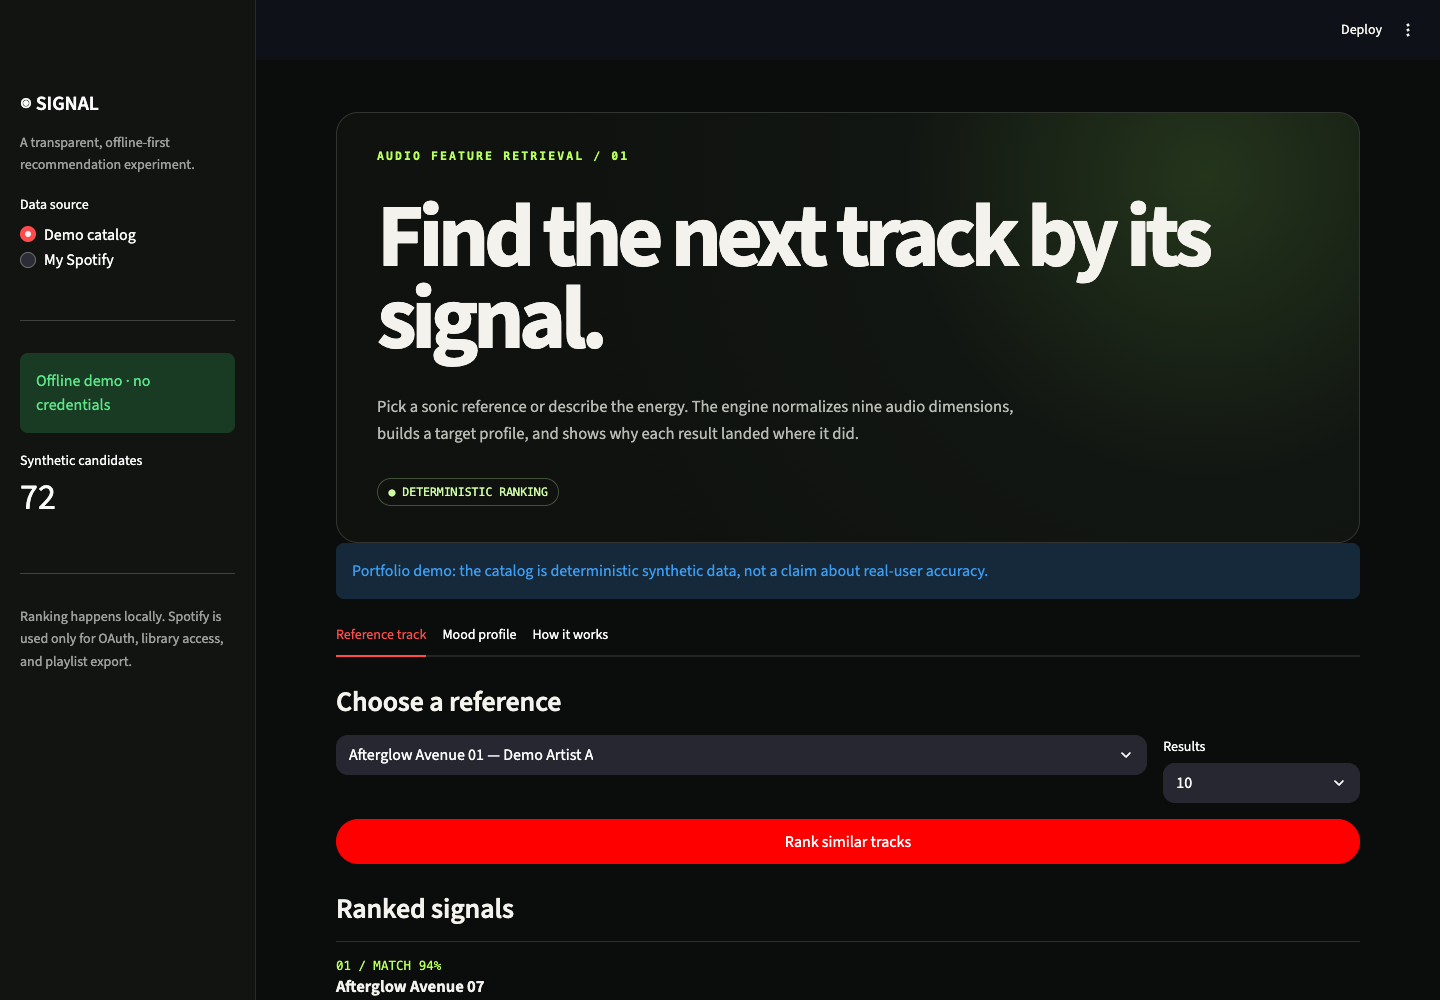
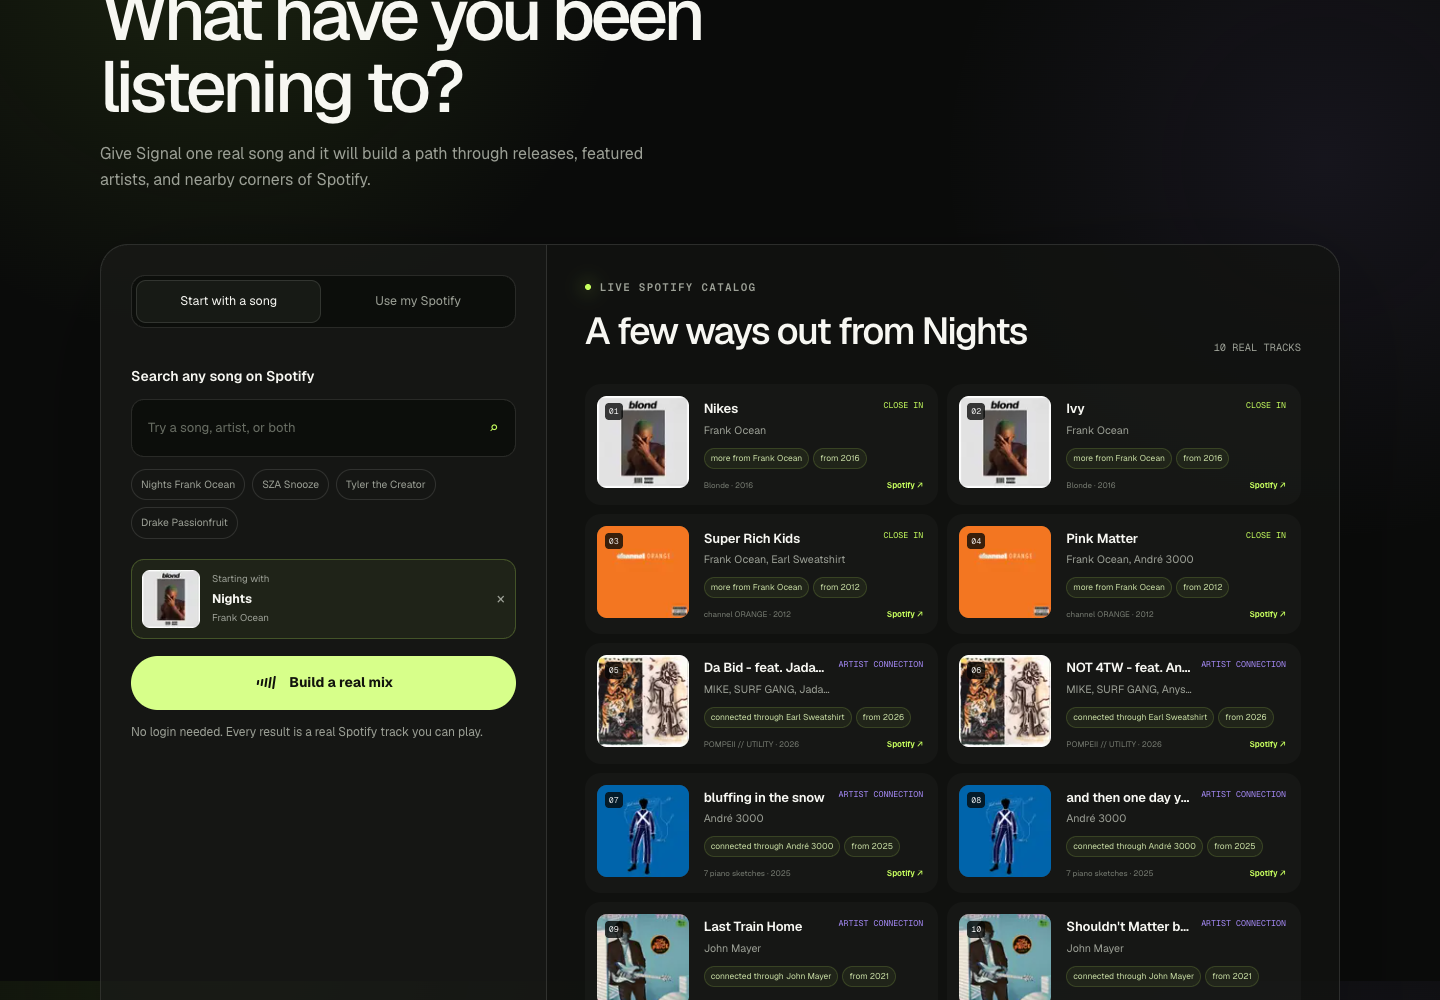
refresh Signal and polish portfolio

diff --git a/lib/project-content.test.ts b/lib/project-content.test.ts
@@ -1,0 +1,102 @@
+import fs from "node:fs";
+import path from "node:path";
+import { describe, expect, it } from "vitest";
+import type { ProjectMeta } from "./types";
+
+const root = process.cwd();
+const projectsRoot = path.join(root, "content", "projects");
+const projectDirectories = fs
+  .readdirSync(projectsRoot, { withFileTypes: true })
+  .filter((entry) => entry.isDirectory())
+  .map((entry) => entry.name)
+  .sort();
+
+function projectMeta(directory: string): ProjectMeta {
+  return JSON.parse(
+    fs.readFileSync(path.join(projectsRoot, directory, "meta.json"), "utf8"),
+  ) as ProjectMeta;
+}
+
+function internalRouteExists(url: string): boolean {
+  const route = url.split(/[?#]/, 1)[0];
+  if (route === "/") return fs.existsSync(path.join(root, "app", "page.tsx"));
+  const segments = route.replace(/^\//, "").split("/").filter(Boolean);
+  return fs.existsSync(path.join(root, "app", ...segments, "page.tsx"));
+}
+
+describe("project portfolio content", () => {
+  it("keeps metadata, folders, and case-study routes in sync", () => {
+    const slugs = new Set<string>();
+
+    for (const directory of projectDirectories) {
+      const metaPath = path.join(projectsRoot, directory, "meta.json");
+      const mdxPath = path.join(projectsRoot, directory, "index.mdx");
+      expect(fs.existsSync(metaPath), `${directory} is missing meta.json`).toBe(true);
+      expect(fs.existsSync(mdxPath), `${directory} is missing index.mdx`).toBe(true);
+
+      const meta = projectMeta(directory);
+      expect(meta.slug, `${directory} has an empty slug`).toBe(directory);
+      expect(slugs.has(meta.slug), `duplicate project slug: ${meta.slug}`).toBe(false);
+      slugs.add(meta.slug);
+
+      expect(meta.title.trim().length, `${directory} has an empty title`).toBeGreaterThan(0);
+      expect(meta.summary.trim().length, `${directory} has a thin summary`).toBeGreaterThan(80);
+      expect(meta.outcome.trim().length, `${directory} has a thin outcome`).toBeGreaterThan(40);
+      expect(meta.tags.length, `${directory} has no technology tags`).toBeGreaterThan(0);
+      expect(meta.startDate, `${directory} has an invalid start date`).toMatch(/^\d{4}-(0[1-9]|1[0-2])$/);
+
+      if (meta.endDate) {
+        expect(meta.endDate, `${directory} has an invalid end date`).toMatch(/^\d{4}-(0[1-9]|1[0-2])$/);
+        expect(meta.endDate >= meta.startDate, `${directory} ends before it starts`).toBe(true);
+      }
+      if (meta.status === "in-progress") {
+        expect(meta.endDate, `${directory} is in progress but has an end date`).toBeNull();
+      }
+
+      const caseStudy = fs.readFileSync(mdxPath, "utf8");
+      expect(caseStudy.trim().length, `${directory} case study is too thin`).toBeGreaterThan(300);
+    }
+  });
+
+  it("keeps project proof links and screenshots resolvable", () => {
+    for (const directory of projectDirectories) {
+      const meta = projectMeta(directory);
+      const caseStudy = fs.readFileSync(
+        path.join(projectsRoot, directory, "index.mdx"),
+        "utf8",
+      );
+
+      expect(meta.liveUrl, `${directory} has no working-product proof link`).toBeTruthy();
+      if (meta.liveUrl?.startsWith("/")) {
+        expect(internalRouteExists(meta.liveUrl), `${directory} points to missing route ${meta.liveUrl}`).toBe(true);
+      } else {
+        expect(meta.liveUrl, `${directory} demo must use HTTPS`).toMatch(/^https:\/\//);
+      }
+
+      if (meta.githubUrl) {
+        expect(meta.githubUrl, `${directory} code link must use HTTPS`).toMatch(/^https:\/\/github\.com\//);
+      }
+
+      const markdownTargets = [...caseStudy.matchAll(/!\[[^\]]*\]\(([^)]+)\)/g)]
+        .map((match) => match[1])
+        .filter((target) => target.startsWith("/"));
+
+      for (const target of markdownTargets) {
+        const publicPath = path.join(root, "public", target.replace(/^\//, ""));
+        expect(fs.existsSync(publicPath), `${directory} references missing proof asset ${target}`).toBe(true);
+        expect(fs.statSync(publicPath).size, `${target} is unexpectedly small`).toBeGreaterThan(10_000);
+      }
+
+      const internalLinks = [...caseStudy.matchAll(/(?<!!)\[[^\]]+\]\((\/[^)]+)\)/g)]
+        .map((match) => match[1]);
+      for (const target of internalLinks) {
+        expect(internalRouteExists(target), `${directory} points to missing route ${target}`).toBe(true);
+      }
+    }
+  });
+
+  it("keeps the featured section to the intended three-project layout", () => {
+    const featured = projectDirectories.filter((directory) => projectMeta(directory).featured);
+    expect(featured).toHaveLength(3);
+  });
+});

diff --git a/lib/metadata.ts b/lib/metadata.ts
@@ -1,0 +1,42 @@
+import type { Metadata } from "next";
+
+interface PageMetadataOptions {
+  title: string;
+  description: string;
+  path: `/${string}`;
+}
+
+export const socialImage = {
+  url: "/opengraph-image",
+  width: 1200,
+  height: 630,
+  alt: "Rohan Singh: projects, running, and more",
+};
+
+export function pageMetadata({
+  title,
+  description,
+  path,
+}: PageMetadataOptions): Metadata {
+  const socialTitle = `${title} | Rohan Singh`;
+
+  return {
+    title,
+    description,
+    alternates: { canonical: path },
+    openGraph: {
+      title: socialTitle,
+      description,
+      url: path,
+      siteName: "Rohan Singh",
+      type: "website",
+      images: [socialImage],
+    },
+    twitter: {
+      card: "summary_large_image",
+      title: socialTitle,
+      description,
+      images: [socialImage],
+    },
+  };
+}

diff --git a/app/globe/page.tsx b/app/globe/page.tsx
@@ -1,16 +1,16 @@
-import type { Metadata } from "next";
 import Image from "next/image";
 import Link from "next/link";
 import { getPlaces } from "@/lib/content";
 import { isAdmin } from "@/lib/admin-auth";
+import { pageMetadata } from "@/lib/metadata";
 import GlobeLoader from "@/components/globe/GlobeLoader";
 import TravelNav from "@/components/globe/TravelNav";
 
-export const metadata: Metadata = {
-  title: "travel",
+export const metadata = pageMetadata({
+  title: "Travel globe",
   description: "Places Rohan has visited around the world.",
-  alternates: { canonical: "/globe" },
-};
+  path: "/globe",
+});
 
 export default async function GlobePage() {
   const [places, admin] = await Promise.all([getPlaces(), isAdmin()]);

diff --git a/app/layout.tsx b/app/layout.tsx
@@ -89,8 +89,16 @@ export default function RootLayout({
         <script dangerouslySetInnerHTML={{ __html: themeScript }} />
       </head>
       <body className="bg-bg text-fg antialiased min-h-screen flex flex-col">
+        <a
+          href="#main-content"
+          className="fixed left-4 top-4 z-[100] -translate-y-24 rounded-full bg-fg px-4 py-2 text-sm font-semibold text-bg shadow-lg transition-transform focus:translate-y-0"
+        >
+          skip to content
+        </a>
         <Header />
-        <main className="flex-1">{children}</main>
+        <main id="main-content" tabIndex={-1} className="flex-1 outline-none">
+          {children}
+        </main>
         <Footer />
         <Analytics />
       </body>

diff --git a/app/states/page.tsx b/app/states/page.tsx
@@ -1,14 +1,14 @@
-import type { Metadata } from "next";
 import { getStates } from "@/lib/content";
 import { isAdmin } from "@/lib/admin-auth";
+import { pageMetadata } from "@/lib/metadata";
 import StatesMap from "@/components/states/StatesMap";
 import TravelNav from "@/components/globe/TravelNav";
 
-export const metadata: Metadata = {
-  title: "states",
+export const metadata = pageMetadata({
+  title: "States",
   description: "US states Rohan has visited.",
-  alternates: { canonical: "/states" },
-};
+  path: "/states",
+});
 
 export default async function StatesPage() {
   const [states, admin] = await Promise.all([getStates(), isAdmin()]);

diff --git a/app/travel-list/page.tsx b/app/travel-list/page.tsx
@@ -1,15 +1,15 @@
-import type { Metadata } from "next";
 import Image from "next/image";
 import Link from "next/link";
 import { isAdmin } from "@/lib/admin-auth";
 import { getPlaces } from "@/lib/content";
+import { pageMetadata } from "@/lib/metadata";
 import TravelNav from "@/components/globe/TravelNav";
 
-export const metadata: Metadata = {
-  title: "travel",
+export const metadata = pageMetadata({
+  title: "Travel journal",
   description: "Places Rohan has visited and the photos he brought home.",
-  alternates: { canonical: "/travel-list" },
-};
+  path: "/travel-list",
+});
 
 export const dynamic = "force-dynamic";
 

diff --git a/app/fitness/page.tsx b/app/fitness/page.tsx
@@ -13,6 +13,7 @@ import { TodayPlan } from "./TodayPlan";
 import TrainingHistoryChart from "./TrainingHistoryChart";
 import { WeeklyPlan } from "./WeeklyPlan";
 import styles from "./fitness.module.css";
+import { socialImage } from "@/lib/metadata";
 
 export const metadata: Metadata = {
   title: "fitness",
@@ -23,6 +24,13 @@ export const metadata: Metadata = {
     title: "fitness in progress",
     description: "Running, lifting, and training for whatever comes next.",
     url: "/fitness",
+    images: [socialImage],
+  },
+  twitter: {
+    card: "summary_large_image",
+    title: "fitness in progress",
+    description: "Running, lifting, and training for whatever comes next.",
+    images: [socialImage],
   },
 };
 

diff --git a/app/history/page.tsx b/app/history/page.tsx
@@ -1,12 +1,12 @@
-import type { Metadata } from "next";
 import { getHistory } from "@/lib/content";
 import { formatDateRange } from "@/lib/dates";
+import { pageMetadata } from "@/lib/metadata";
 
-export const metadata: Metadata = {
+export const metadata = pageMetadata({
   title: "Experience",
   description: "Where Rohan Singh has worked, what he did there, and the results he is proud of.",
-  alternates: { canonical: "/history" },
-};
+  path: "/history",
+});
 
 const typeLabel: Record<string, string> = {
   work: "work",

diff --git a/app/now/page.tsx b/app/now/page.tsx
@@ -1,15 +1,15 @@
-import type { Metadata } from "next";
 import fs from "fs";
 import path from "path";
 import { compileMDX } from "next-mdx-remote/rsc";
 import { daysSince } from "@/lib/dates";
+import { pageMetadata } from "@/lib/metadata";
 import SpotifyNowPlaying from "@/components/widgets/SpotifyNowPlaying";
 
-export const metadata: Metadata = {
+export const metadata = pageMetadata({
   title: "Now",
   description: "What Rohan Singh is working on, training for, and thinking about right now.",
-  alternates: { canonical: "/now" },
-};
+  path: "/now",
+});
 
 const STALE_DAYS = 90;
 

diff --git a/app/resume/page.tsx b/app/resume/page.tsx
@@ -1,12 +1,12 @@
-import type { Metadata } from "next";
 import { getHistory, getSiteConfig } from "@/lib/content";
 import { formatDateRange } from "@/lib/dates";
+import { pageMetadata } from "@/lib/metadata";
 
-export const metadata: Metadata = {
+export const metadata = pageMetadata({
   title: "Résumé",
   description: "Rohan Singh's education, software engineering experience, and technical skills.",
-  alternates: { canonical: "/resume" },
-};
+  path: "/resume",
+});
 
 export default function ResumePage() {
   const history = getHistory();

diff --git a/app/admin/travel/page.tsx b/app/admin/travel/page.tsx
@@ -17,7 +17,7 @@ export default async function TravelPhotoAdminPage() {
   const places = await getPlaces();
 
   return (
-    <main className="site-container page-section">
+    <div className="site-container page-section">
       <Link href="/travel-list" className="text-sm text-muted hover:text-fg">
         ← back to travel
       </Link>
@@ -30,6 +30,6 @@ export default async function TravelPhotoAdminPage() {
         </p>
       </header>
       <TravelPhotoManager initialPlaces={places} />
-    </main>
+    </div>
   );
 }

diff --git a/app/page.tsx b/app/page.tsx
@@ -6,6 +6,7 @@ import { formatDateRange } from "@/lib/dates";
 import { getRunningDashboard } from "@/lib/running";
 import ProjectFeatureCard from "@/components/projects/ProjectFeatureCard";
 import FitnessPreview from "@/components/fitness/FitnessPreview";
+import { socialImage } from "@/lib/metadata";
 
 export const metadata: Metadata = {
   title: { absolute: "Rohan Singh: projects, running, and more" },
@@ -16,11 +17,13 @@ export const metadata: Metadata = {
     title: "Rohan Singh: projects, running, and more",
     description: "A UVA student making things he actually wants to use.",
     url: "/",
+    images: [socialImage],
   },
   twitter: {
     card: "summary_large_image",
     title: "Rohan Singh: projects, running, and more",
     description: "A UVA student making things he actually wants to use.",
+    images: [socialImage],
   },
 };
 